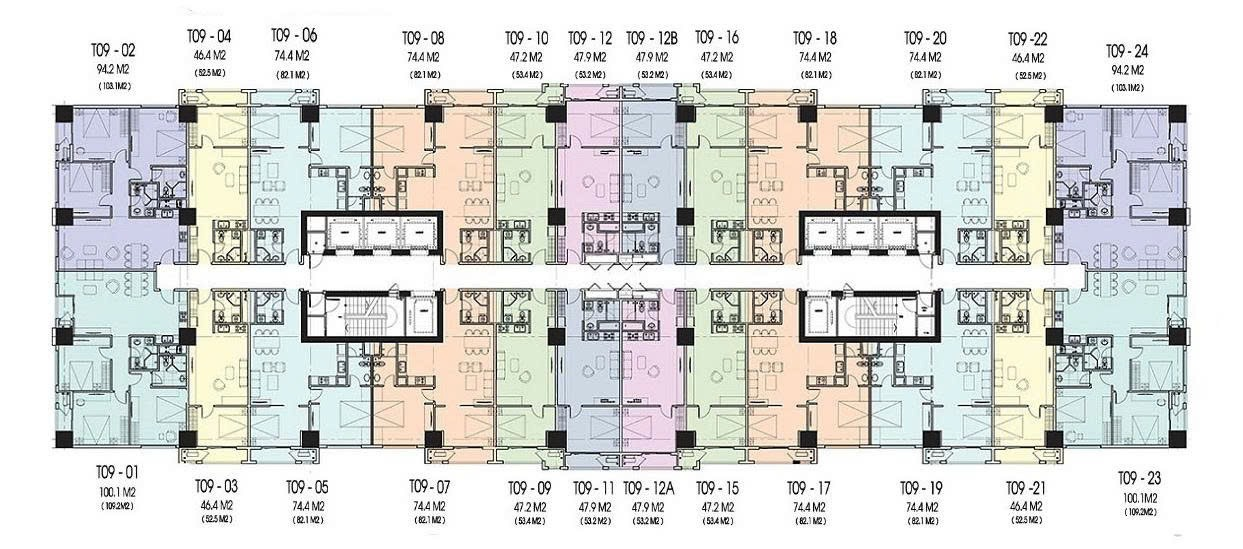
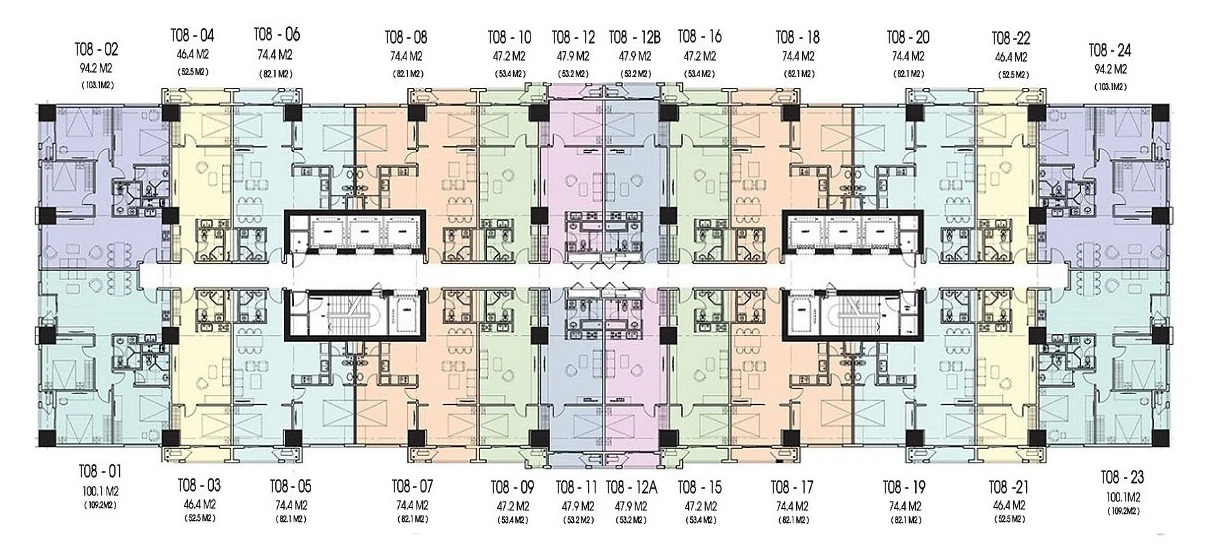
Give T8 its own plan image, keeping T9's boxes
T8 was showing T9's plan, labels and all. With a clean T8 plan in
hand, T8 keeps T9's hand-drawn boxes but has them mapped onto its own
image through the building outline — the two plans are cut and scaled
slightly differently. A building listed in NEN_RIENG keeps its image
when its twin is re-imported; only the coordinates follow.

diff --git a/src/data/matBangTruc.js b/src/data/matBangTruc.js
@@ -1941,148 +1941,148 @@ export default {
   },
   "T08": {
     "01": {
-      "h": 37.16,
-      "w": 13.19,
-      "x": 3.06,
-      "y": 46.81
+      "h": 36.99,
+      "w": 13.48,
+      "x": 1.81,
+      "y": 46.37
     },
     "02": {
-      "h": 33.52,
-      "w": 13.18,
-      "x": 3.14,
-      "y": 17.12
+      "h": 33.37,
+      "w": 13.47,
+      "x": 1.89,
+      "y": 16.82
     },
     "03": {
-      "h": 35.61,
-      "w": 7.23,
-      "x": 13.66,
-      "y": 50.0
+      "h": 35.45,
+      "w": 7.39,
+      "x": 12.65,
+      "y": 49.55
     },
     "04": {
-      "h": 35.34,
-      "w": 7.24,
-      "x": 13.76,
-      "y": 14.57
+      "h": 35.18,
+      "w": 7.4,
+      "x": 12.75,
+      "y": 14.28
     },
     "05": {
-      "h": 36.43,
-      "w": 12.22,
-      "x": 18.65,
-      "y": 49.54
+      "h": 36.26,
+      "w": 12.49,
+      "x": 17.75,
+      "y": 49.09
     },
     "06": {
-      "h": 36.51,
-      "w": 11.64,
-      "x": 19.28,
-      "y": 14.21
+      "h": 36.34,
+      "w": 11.9,
+      "x": 18.39,
+      "y": 13.92
     },
     "07": {
-      "h": 35.52,
-      "w": 12.37,
-      "x": 28.44,
-      "y": 50.27
+      "h": 35.36,
+      "w": 12.64,
+      "x": 27.76,
+      "y": 49.82
     },
     "08": {
-      "h": 35.88,
-      "w": 12.22,
-      "x": 28.94,
-      "y": 14.21
+      "h": 35.72,
+      "w": 12.49,
+      "x": 28.27,
+      "y": 13.92
     },
     "09": {
-      "h": 36.25,
-      "w": 7.71,
-      "x": 38.32,
-      "y": 50.46
+      "h": 36.08,
+      "w": 7.88,
+      "x": 37.86,
+      "y": 50.01
     },
     "10": {
-      "h": 39.08,
-      "w": 7.15,
-      "x": 38.88,
-      "y": 11.65
+      "h": 38.9,
+      "w": 7.31,
+      "x": 38.43,
+      "y": 11.37
     },
     "11": {
-      "h": 36.42,
-      "w": 7.48,
-      "x": 43.41,
-      "y": 50.27
+      "h": 36.25,
+      "w": 7.65,
+      "x": 43.06,
+      "y": 49.82
     },
     "12": {
-      "h": 37.89,
-      "w": 6.67,
-      "x": 44.05,
-      "y": 12.02
+      "h": 37.72,
+      "w": 6.82,
+      "x": 43.71,
+      "y": 11.74
     },
     "12A": {
-      "h": 36.79,
-      "w": 7.15,
-      "x": 49.0,
-      "y": 50.27
+      "h": 36.62,
+      "w": 7.31,
+      "x": 48.77,
+      "y": 49.82
     },
     "12B": {
-      "h": 37.52,
-      "w": 6.51,
-      "x": 49.36,
-      "y": 11.84
+      "h": 37.35,
+      "w": 6.65,
+      "x": 49.14,
+      "y": 11.56
     },
     "15": {
-      "h": 37.34,
-      "w": 6.83,
-      "x": 54.02,
-      "y": 49.73
+      "h": 37.17,
+      "w": 6.98,
+      "x": 53.9,
+      "y": 49.28
     },
     "16": {
-      "h": 38.33,
-      "w": 6.34,
-      "x": 54.46,
-      "y": 11.85
+      "h": 38.15,
+      "w": 6.48,
+      "x": 54.35,
+      "y": 11.57
     },
     "17": {
-      "h": 35.34,
-      "w": 12.06,
-      "x": 58.84,
-      "y": 50.64
+      "h": 35.18,
+      "w": 12.33,
+      "x": 58.83,
+      "y": 50.18
     },
     "18": {
-      "h": 35.52,
-      "w": 11.48,
+      "h": 35.36,
+      "w": 11.73,
       "x": 59.28,
-      "y": 14.21
+      "y": 13.92
     },
     "19": {
-      "h": 35.15,
-      "w": 12.22,
-      "x": 68.81,
-      "y": 50.46
+      "h": 34.99,
+      "w": 12.49,
+      "x": 69.02,
+      "y": 50.01
     },
     "20": {
-      "h": 34.79,
-      "w": 12.22,
-      "x": 68.65,
-      "y": 14.75
+      "h": 34.63,
+      "w": 12.49,
+      "x": 68.86,
+      "y": 14.46
     },
     "21": {
-      "h": 35.7,
-      "w": 7.15,
-      "x": 78.95,
-      "y": 50.27
+      "h": 35.54,
+      "w": 7.31,
+      "x": 79.39,
+      "y": 49.82
     },
     "22": {
-      "h": 37.6,
-      "w": 6.99,
-      "x": 78.87,
-      "y": 12.4
+      "h": 37.43,
+      "w": 7.15,
+      "x": 79.31,
+      "y": 12.12
     },
     "23": {
-      "h": 37.97,
-      "w": 13.65,
-      "x": 82.89,
-      "y": 45.82
+      "h": 37.8,
+      "w": 13.95,
+      "x": 83.41,
+      "y": 45.39
     },
     "24": {
-      "h": 35.97,
-      "w": 13.47,
-      "x": 82.59,
-      "y": 14.94
+      "h": 35.81,
+      "w": 13.77,
+      "x": 83.11,
+      "y": 14.65
     }
   },
   "T09": {

diff --git a/scripts/catTrucMatBang.py b/scripts/catTrucMatBang.py
@@ -418,15 +418,50 @@ GIONG = {
 }
 
 
+# Tòa giống tòa mẫu nhưng có ẢNH NỀN RIÊNG in đúng tên mình. Chỉ toạ độ đi theo tòa
+# mẫu, khớp sang ảnh riêng bằng viền tòa (ảnh hai tòa cắt / zoom khác nhau). Ảnh riêng
+# không bao giờ bị ảnh tòa mẫu ghi đè. Thêm ảnh riêng:
+#   python scripts/catTrucMatBang.py T08 --nen "C:\...\T08.jpg"
+NEN_RIENG = {"T08"}
+
+
+def khop_toa_do(toa_do_mau, im_mau, im_dich):
+    """Chiếu toạ độ % trên ảnh tòa mẫu sang ảnh tòa đích, căn theo viền tòa."""
+    MW, MH = im_mau.size
+    DW, DH = im_dich.size
+    a = khung_toa_bo_do(im_mau)
+    b = khung_toa_bo_do(im_dich)
+    sx = (b[2] - b[0]) / float(a[2] - a[0])
+    sy = (b[3] - b[1]) / float(a[3] - a[1])
+    if abs(sx / sy - 1) > 0.03:
+        raise SystemExit("viền tòa hai ảnh không cùng tỉ lệ (ngang %.3f, dọc %.3f) — có phải cùng một layout?" % (sx, sy))
+    ra = {}
+    for t, k in toa_do_mau.items():
+        x1 = b[0] + (k["x"] / 100 * MW - a[0]) * sx
+        y1 = b[1] + (k["y"] / 100 * MH - a[1]) * sy
+        x2 = b[0] + ((k["x"] + k["w"]) / 100 * MW - a[0]) * sx
+        y2 = b[1] + ((k["y"] + k["h"]) / 100 * MH - a[1]) * sy
+        x1, y1, x2, y2 = max(0, x1), max(0, y1), min(DW - 1, x2), min(DH - 1, y2)
+        ra[t] = {"x": round(x1 / DW * 100, 2), "y": round(y1 / DH * 100, 2),
+                 "w": round((x2 - x1) / DW * 100, 2), "h": round((y2 - y1) / DH * 100, 2)}
+    return ra, sx, sy
+
+
 def chep_toa_giong(mau):
     import shutil
     du = doc_ban_do()
     for toa, nguon in GIONG.items():
         if nguon != mau or mau not in du:
             continue
-        shutil.copyfile(os.path.join(THUMUC_RA, "%s.jpg" % mau), os.path.join(THUMUC_RA, "%s.jpg" % toa))
-        du[toa] = du[mau]
-        print("%s: chep tu %s (%d truc)" % (toa, mau, len(du[mau])))
+        nen = os.path.join(THUMUC_RA, "%s.jpg" % toa)
+        if toa in NEN_RIENG and os.path.exists(nen):
+            im_mau = Image.open(os.path.join(THUMUC_RA, "%s.jpg" % mau)).convert("RGB")
+            du[toa], sx, sy = khop_toa_do(du[mau], im_mau, Image.open(nen).convert("RGB"))
+            print("%s: khop toa do tu %s sang anh rieng (ti le %.3f/%.3f, %d truc)" % (toa, mau, sx, sy, len(du[toa])))
+        else:
+            shutil.copyfile(os.path.join(THUMUC_RA, "%s.jpg" % mau), nen)
+            du[toa] = du[mau]
+            print("%s: chep tu %s (%d truc)" % (toa, mau, len(du[mau])))
     ghi_ban_do(du)
 TRUC_HOP_LE = re.compile(r"^(\d{2}|12[AB])$")
 
@@ -790,6 +825,17 @@ if __name__ == "__main__":
     # Chỉ chép tòa mẫu sang các tòa giống nó, KHÔNG đo lại tòa mẫu — dùng cho tòa mẫu làm
     # bằng máy đo (T01) mà toạ độ đã duyệt, đo lại là lệch vài pixel so với bản đã duyệt.
     #   python scripts/catTrucMatBang.py T01 --chep
+    if "--nen" in args:
+        i = args.index("--nen")
+        toa_nen, duong = args[i - 1], args[i + 1]
+        if toa_nen not in NEN_RIENG or toa_nen not in GIONG:
+            raise SystemExit("%s: phai co trong GIONG va NEN_RIENG truoc" % toa_nen)
+        im = Image.open(duong).convert("RGB")
+        if khung_do_trong(im):
+            raise SystemExit("anh nen dang co khung do — anh nen phai sach")
+        im.save(os.path.join(THUMUC_RA, "%s.jpg" % toa_nen), quality=CHAT_LUONG, optimize=True)
+        chep_toa_giong(GIONG[toa_nen])
+        raise SystemExit(0)
     if "--chep" in args:
         chep_toa_giong(args[args.index("--chep") - 1])
         raise SystemExit(0)
